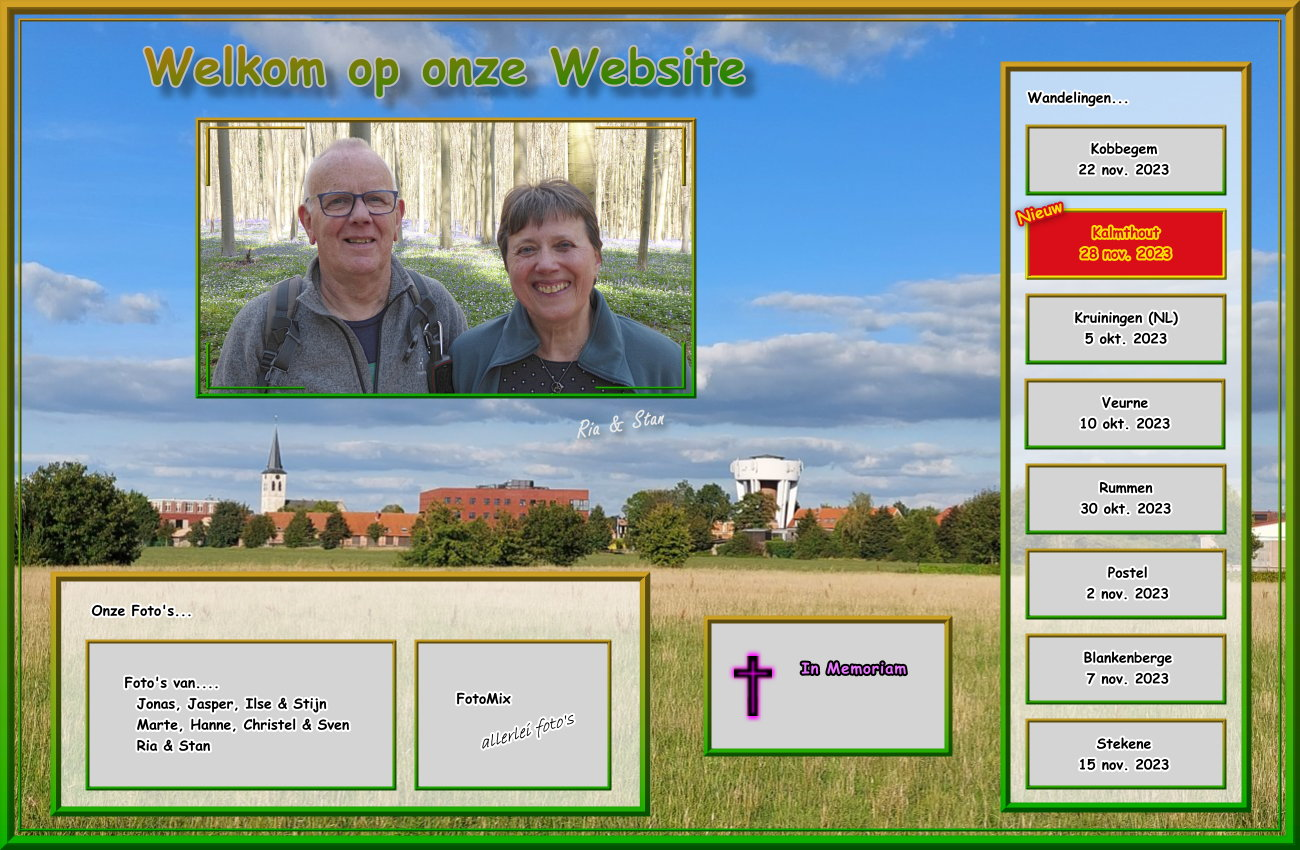
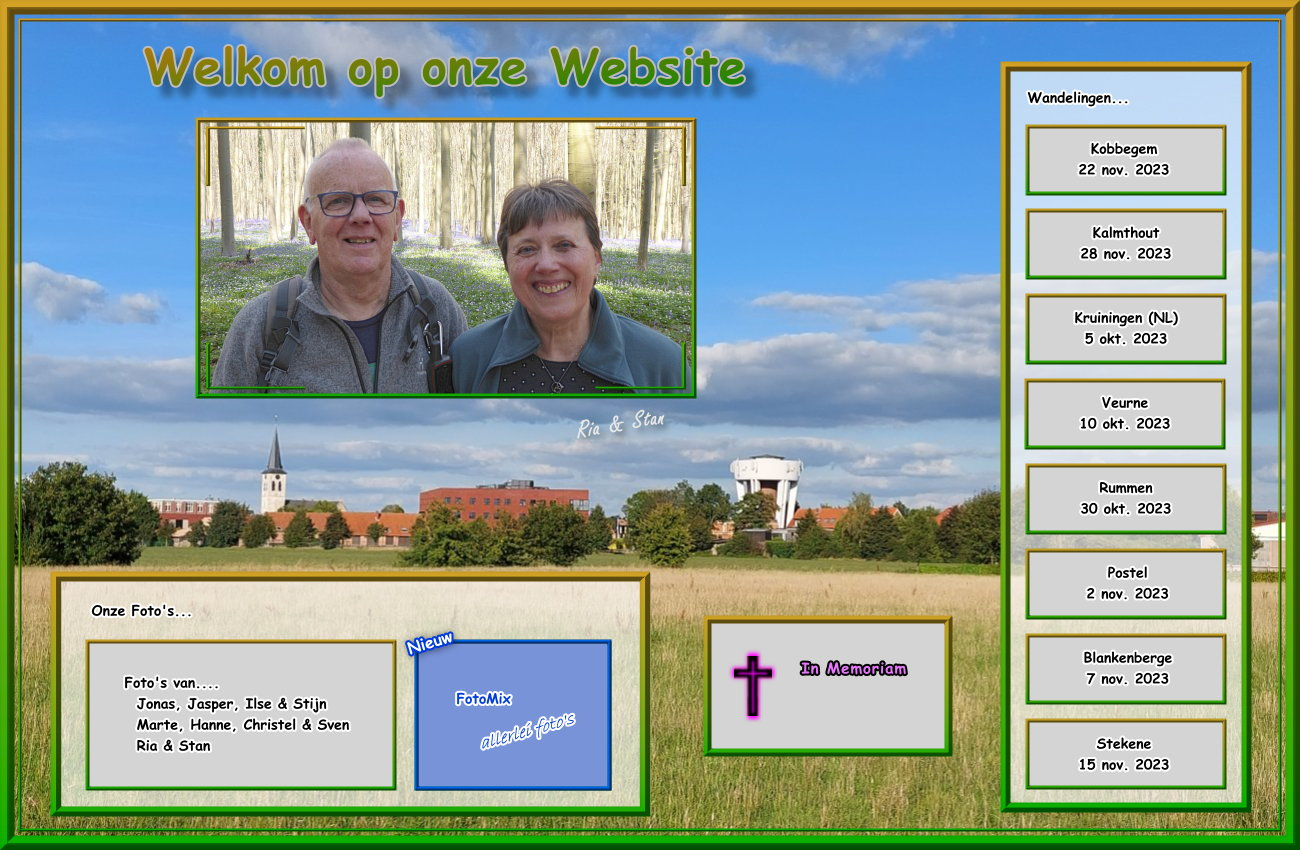
street art

Changed region(s): [[0.3077, 0.7341, 0.4923, 0.9482], [0.7692, 0.2141, 0.9538, 0.3365]]

diff --git a/_vti_cnf/fotomix.htm b/_vti_cnf/fotomix.htm
@@ -1,20 +1,20 @@
 vti_encoding:SR|utf8-nl
 vti_author:SR|HOME-PC\\Stan Claes
 vti_modifiedby:SR|PC-Home\\Stan
-vti_timelastmodified:TR|13 Nov 2023 14:21:16 -0000
+vti_timelastmodified:TR|07 Dec 2023 14:17:55 -0000
 vti_timecreated:TR|24 Jul 2006 16:29:15 -0000
 vti_title:SR|Fotomix
 vti_extenderversion:SR|6.0.2.5516
 vti_lineageid:SR|{4CA186E6-ED25-4229-BE09-238CFA3DE64C}
 vti_backlinkinfo:VX|familiefotos.htm Polaroid_map1/paasfeest.htm index.htm fotomix.htm fortb/fortb.htm Polaroid_map2/fortb.htm hanne5.htm sneeuw.htm kerst.htm kerstmis.htm keukenhof.htm ballon.htm
-vti_nexttolasttimemodified:TW|13 Nov 2023 13:47:52 -0000
+vti_nexttolasttimemodified:TW|13 Nov 2023 14:21:16 -0000
 vti_thicketdir:SW|fotomix_bestanden
-vti_cacheddtm:TX|13 Nov 2023 14:21:16 -0000
-vti_filesize:IR|15448
+vti_cacheddtm:TX|07 Dec 2023 14:17:55 -0000
+vti_filesize:IR|16966
 vti_cachedtitle:SR|Fotomix
 vti_cachedbodystyle:SR|<body style="background-attachment: fixed" leftmargin="70" rightmargin="70" bgcolor="#EFF4AC">
-vti_cachedlinkinfo:VX|H|index.htm H|familiefotos.htm S|Fotomap/fotomix/fotomix_naam.png S|Fotomap/fotomix/231110_mix_titel.png S|Fotomap/fotomix/bijtekst_tcsbe.jpg S|Fotomap/fotomix/tcsbe_02.jpg S|Fotomap/fotomix/tcsbe_01.jpg S|Fotomap/fotomix/tcsbe_03.jpg S|Fotomap/fotomix/tcsbe_05.jpg S|Fotomap/fotomix/tcsbe_07.gif S|Fotomap/fotomix/tcsbe_09.jpg S|Fotomap/fotomix/tcsbe_10.jpg S|Fotomap/fotomix/tcsbe_11.jpg S|Fotomap/fotomix/tcsbe_12.jpg S|Fotomap/fotomix/tcsbe_14.jpg S|Fotomap/fotomix/tcsbe_15.jpg S|Fotomap/fotomix/tcsbe_16.jpg S|Fotomap/fotomix/tcsbe_17.jpg S|Fotomap/fotomix/tcsbe_19.jpg S|Fotomap/fotomix/tcsbe_20.jpg S|Fotomap/fotomix/tcsbe_22.jpg S|Fotomap/fotomix/tcsbe_23.jpg S|Fotomap/fotomix/tcsbe_24.jpg S|Fotomap/fotomix/tcsbe_25.jpg S|Fotomap/fotomix/tcsbe_26.jpg S|Fotomap/fotomix/tcsbe_30.jpg S|Fotomap/fotomix/tcsbe_29.jpg S|Fotomap/fotomix/tcsbe_31.jpg S|Fotomap/fotomix/tcsbe_34.gif S|Fotomap/fotomix/tcsbe_36.jpg S|Fotomap/fotomix/tcsbe_41.jpg S|Fotomap/fotomix/tcsbe_37.jpg K|fotomix.htm S|Fotomap/fotomix/terugbegin.png S|Fotomap/fotomix/220807_mix_titel.png S|Fotomap/fotomix/bijtekst_ostend.jpg S|Fotomap/fotomix/bomma_ostend_01.jpg S|Fotomap/fotomix/bomma_ostend_02.jpg S|Fotomap/fotomix/bomma_ostend_03.jpg S|Fotomap/fotomix/bomma_ostend_05.jpg S|Fotomap/fotomix/bomma_ostend_07.jpg S|Fotomap/fotomix/bomma_ostend_08.jpg S|Fotomap/fotomix/bomma_ostend_09.jpg S|Fotomap/fotomix/bomma_ostend_11.jpg S|Fotomap/fotomix/bomma_ostend_14.jpg S|Fotomap/fotomix/bomma_ostend_16.jpg S|Fotomap/fotomix/bomma_ostend_17.jpg K|fotomix.htm S|Fotomap/fotomix/terugbegin.png S|Fotomap/fotomix/220522_mix_titel.png S|Fotomap/fotomix/bijtekst_middelheim.jpg S|Fotomap/fotomix/middelhm_01.jpg S|Fotomap/fotomix/middelhm_04.jpg S|Fotomap/fotomix/middelhm_05.jpg S|Fotomap/fotomix/middelhm_06.jpg S|Fotomap/fotomix/middelhm_09.jpg S|Fotomap/fotomix/middelhm_10.jpg S|Fotomap/fotomix/middelhm_12.jpg S|Fotomap/fotomix/middelhm_14.jpg S|Fotomap/fotomix/middelhm_16.jpg S|Fotomap/fotomix/middelhm_19.jpg S|Fotomap/fotomix/middelhm_23.jpg S|Fotomap/fotomix/middelhm_24.jpg S|Fotomap/fotomix/middelhm_26.jpg S|Fotomap/fotomix/middelhm_27.jpg S|Fotomap/fotomix/middelhm_28.jpg S|Fotomap/fotomix/middelhm_30.jpg S|Fotomap/fotomix/middelhm_31.jpg S|Fotomap/fotomix/middelhm_34.jpg S|Fotomap/fotomix/middelhm_35.jpg S|Fotomap/fotomix/middelhm_37.jpg S|Fotomap/fotomix/middelhm_39.jpg S|Fotomap/fotomix/middelhm_41.jpg S|Fotomap/fotomix/middelhm_42.jpg S|Fotomap/fotomix/middelhm_48.jpg S|Fotomap/fotomix/middelhm_50.jpg S|Fotomap/fotomix/middelhm_51.jpg S|Fotomap/fotomix/middelhm_52.jpg S|Fotomap/fotomix/middelhm_54.jpg S|Fotomap/fotomix/middelhm_57.jpg S|Fotomap/fotomix/middelhm_56.jpg S|Fotomap/fotomix/middelhm_61.jpg S|Fotomap/fotomix/middelhm_60.jpg K|fotomix.htm S|Fotomap/fotomix/terugbegin.png S|Fotomap/fotomix/220430_mix_titel.png S|Fotomap/fotomix/vormsel_03.jpg S|Fotomap/fotomix/vormsel_06.jpg S|Fotomap/fotomix/vormsel_08.jpg S|Fotomap/fotomix/vormsel_10.jpg S|Fotomap/fotomix/vormsel_19.jpg S|Fotomap/fotomix/vormsel_14.jpg S|Fotomap/fotomix/vormsel_17.jpg S|Fotomap/fotomix/vormsel_21.jpg S|Fotomap/fotomix/vormsel_29.jpg S|Fotomap/fotomix/vormsel_22.jpg S|Fotomap/fotomix/vormsel_28.jpg S|Fotomap/fotomix/vormsel_32.jpg K|fotomix.htm S|Fotomap/fotomix/terugbegin.png S|Fotomap/fotomix/210713_mix_titel.png S|Fotomap/fotomix/bijtekst_chocolate.jpg S|Fotomap/fotomix/chocolate_07.jpg S|Fotomap/fotomix/chocolate_01.jpg S|Fotomap/fotomix/chocolate_09.jpg S|Fotomap/fotomix/chocolate_11.jpg S|Fotomap/fotomix/chocolate_18.jpg S|Fotomap/fotomix/chocolate_43.jpg S|Fotomap/fotomix/chocolate_19.jpg S|Fotomap/fotomix/chocolate_21.jpg S|Fotomap/fotomix/chocolate_27.jpg S|Fotomap/fotomix/chocolate_29.jpg S|Fotomap/fotomix/chocolate_34.jpg S|Fotomap/fotomix/chocolate_45.jpg S|Fotomap/fotomix/chocolate_48.jpg S|Fotomap/fotomix/chocolate_52.jpg S|Fotomap/fotomix/chocolate_praline.png K|fotomix.htm S|Fotomap/fotomix/terugbegin.png S|Fotomap/fotomix/210606_mix_titel.png S|Fotomap/fotomix/verjstijjas_01.jpg S|Fotomap/fotomix/verjstijjas_03.jpg S|Fotomap/fotomix/verjstijjas_05.jpg S|Fotomap/fotomix/verjstijjas_08.jpg S|Fotomap/fotomix/verjstijjas_10.jpg S|Fotomap/fotomix/verjstijjas_12.jpg S|Fotomap/fotomix/verjstijjas_16.jpg S|Fotomap/fotomix/verjstijjas_20.jpg S|Fotomap/fotomix/verjstijjas_22.jpg S|Fotomap/fotomix/verjstijjas_26.jpg K|fotomix.htm S|Fotomap/fotomix/terugbegin.png S|Fotomap/fotomix/201218_mix_titel.png S|Fotomap/fotomix/bijtekst_borsbeek.jpg S|Fotomap/fotomix/borsbeek_03.jpg S|Fotomap/fotomix/borsbeek_04.jpg S|Fotomap/fotomix/borsbeek_06.jpg S|Fotomap/fotomix/borsbeek_08.jpg S|Fotomap/fotomix/borsbeek_10.jpg S|Fotomap/fotomix/borsbeek_12.jpg S|Fotomap/fotomix/borsbeek_14.jpg S|Fotomap/fotomix/borsbeek_16.jpg S|Fotomap/fotomix/borsbeek_19.jpg S|Fotomap/fotomix/borsbeek_17.jpg S|Fotomap/fotomix/borsbeek_18.jpg S|Fotomap/fotomix/borsbeek_29.jpg S|Fotomap/fotomix/borsbeek_31.jpg S|Fotomap/fotomix/borsbeek_25.jpg S|Fotomap/fotomix/borsbeek_33.jpg K|fotomix.htm S|Fotomap/fotomix/terugbegin.png
-vti_cachedsvcrellinks:VX|FHUS|index.htm FHUS|familiefotos.htm FSUS|Fotomap/fotomix/fotomix_naam.png FSUS|Fotomap/fotomix/231110_mix_titel.png FSUS|Fotomap/fotomix/bijtekst_tcsbe.jpg FSUS|Fotomap/fotomix/tcsbe_02.jpg FSUS|Fotomap/fotomix/tcsbe_01.jpg FSUS|Fotomap/fotomix/tcsbe_03.jpg FSUS|Fotomap/fotomix/tcsbe_05.jpg FSUS|Fotomap/fotomix/tcsbe_07.gif FSUS|Fotomap/fotomix/tcsbe_09.jpg FSUS|Fotomap/fotomix/tcsbe_10.jpg FSUS|Fotomap/fotomix/tcsbe_11.jpg FSUS|Fotomap/fotomix/tcsbe_12.jpg FSUS|Fotomap/fotomix/tcsbe_14.jpg FSUS|Fotomap/fotomix/tcsbe_15.jpg FSUS|Fotomap/fotomix/tcsbe_16.jpg FSUS|Fotomap/fotomix/tcsbe_17.jpg FSUS|Fotomap/fotomix/tcsbe_19.jpg FSUS|Fotomap/fotomix/tcsbe_20.jpg FSUS|Fotomap/fotomix/tcsbe_22.jpg FSUS|Fotomap/fotomix/tcsbe_23.jpg FSUS|Fotomap/fotomix/tcsbe_24.jpg FSUS|Fotomap/fotomix/tcsbe_25.jpg FSUS|Fotomap/fotomix/tcsbe_26.jpg FSUS|Fotomap/fotomix/tcsbe_30.jpg FSUS|Fotomap/fotomix/tcsbe_29.jpg FSUS|Fotomap/fotomix/tcsbe_31.jpg FSUS|Fotomap/fotomix/tcsbe_34.gif FSUS|Fotomap/fotomix/tcsbe_36.jpg FSUS|Fotomap/fotomix/tcsbe_41.jpg FSUS|Fotomap/fotomix/tcsbe_37.jpg FKUS|fotomix.htm FSUS|Fotomap/fotomix/terugbegin.png FSUS|Fotomap/fotomix/220807_mix_titel.png FSUS|Fotomap/fotomix/bijtekst_ostend.jpg FSUS|Fotomap/fotomix/bomma_ostend_01.jpg FSUS|Fotomap/fotomix/bomma_ostend_02.jpg FSUS|Fotomap/fotomix/bomma_ostend_03.jpg FSUS|Fotomap/fotomix/bomma_ostend_05.jpg FSUS|Fotomap/fotomix/bomma_ostend_07.jpg FSUS|Fotomap/fotomix/bomma_ostend_08.jpg FSUS|Fotomap/fotomix/bomma_ostend_09.jpg FSUS|Fotomap/fotomix/bomma_ostend_11.jpg FSUS|Fotomap/fotomix/bomma_ostend_14.jpg FSUS|Fotomap/fotomix/bomma_ostend_16.jpg FSUS|Fotomap/fotomix/bomma_ostend_17.jpg FKUS|fotomix.htm FSUS|Fotomap/fotomix/terugbegin.png FSUS|Fotomap/fotomix/220522_mix_titel.png FSUS|Fotomap/fotomix/bijtekst_middelheim.jpg FSUS|Fotomap/fotomix/middelhm_01.jpg FSUS|Fotomap/fotomix/middelhm_04.jpg FSUS|Fotomap/fotomix/middelhm_05.jpg FSUS|Fotomap/fotomix/middelhm_06.jpg FSUS|Fotomap/fotomix/middelhm_09.jpg FSUS|Fotomap/fotomix/middelhm_10.jpg FSUS|Fotomap/fotomix/middelhm_12.jpg FSUS|Fotomap/fotomix/middelhm_14.jpg FSUS|Fotomap/fotomix/middelhm_16.jpg FSUS|Fotomap/fotomix/middelhm_19.jpg FSUS|Fotomap/fotomix/middelhm_23.jpg FSUS|Fotomap/fotomix/middelhm_24.jpg FSUS|Fotomap/fotomix/middelhm_26.jpg FSUS|Fotomap/fotomix/middelhm_27.jpg FSUS|Fotomap/fotomix/middelhm_28.jpg FSUS|Fotomap/fotomix/middelhm_30.jpg FSUS|Fotomap/fotomix/middelhm_31.jpg FSUS|Fotomap/fotomix/middelhm_34.jpg FSUS|Fotomap/fotomix/middelhm_35.jpg FSUS|Fotomap/fotomix/middelhm_37.jpg FSUS|Fotomap/fotomix/middelhm_39.jpg FSUS|Fotomap/fotomix/middelhm_41.jpg FSUS|Fotomap/fotomix/middelhm_42.jpg FSUS|Fotomap/fotomix/middelhm_48.jpg FSUS|Fotomap/fotomix/middelhm_50.jpg FSUS|Fotomap/fotomix/middelhm_51.jpg FSUS|Fotomap/fotomix/middelhm_52.jpg FSUS|Fotomap/fotomix/middelhm_54.jpg FSUS|Fotomap/fotomix/middelhm_57.jpg FSUS|Fotomap/fotomix/middelhm_56.jpg FSUS|Fotomap/fotomix/middelhm_61.jpg FSUS|Fotomap/fotomix/middelhm_60.jpg FKUS|fotomix.htm FSUS|Fotomap/fotomix/terugbegin.png FSUS|Fotomap/fotomix/220430_mix_titel.png FSUS|Fotomap/fotomix/vormsel_03.jpg FSUS|Fotomap/fotomix/vormsel_06.jpg FSUS|Fotomap/fotomix/vormsel_08.jpg FSUS|Fotomap/fotomix/vormsel_10.jpg FSUS|Fotomap/fotomix/vormsel_19.jpg FSUS|Fotomap/fotomix/vormsel_14.jpg FSUS|Fotomap/fotomix/vormsel_17.jpg FSUS|Fotomap/fotomix/vormsel_21.jpg FSUS|Fotomap/fotomix/vormsel_29.jpg FSUS|Fotomap/fotomix/vormsel_22.jpg FSUS|Fotomap/fotomix/vormsel_28.jpg FSUS|Fotomap/fotomix/vormsel_32.jpg FKUS|fotomix.htm FSUS|Fotomap/fotomix/terugbegin.png FSUS|Fotomap/fotomix/210713_mix_titel.png FSUS|Fotomap/fotomix/bijtekst_chocolate.jpg FSUS|Fotomap/fotomix/chocolate_07.jpg FSUS|Fotomap/fotomix/chocolate_01.jpg FSUS|Fotomap/fotomix/chocolate_09.jpg FSUS|Fotomap/fotomix/chocolate_11.jpg FSUS|Fotomap/fotomix/chocolate_18.jpg FSUS|Fotomap/fotomix/chocolate_43.jpg FSUS|Fotomap/fotomix/chocolate_19.jpg FSUS|Fotomap/fotomix/chocolate_21.jpg FSUS|Fotomap/fotomix/chocolate_27.jpg FSUS|Fotomap/fotomix/chocolate_29.jpg FSUS|Fotomap/fotomix/chocolate_34.jpg FSUS|Fotomap/fotomix/chocolate_45.jpg FSUS|Fotomap/fotomix/chocolate_48.jpg FSUS|Fotomap/fotomix/chocolate_52.jpg FSUS|Fotomap/fotomix/chocolate_praline.png FKUS|fotomix.htm FSUS|Fotomap/fotomix/terugbegin.png FSUS|Fotomap/fotomix/210606_mix_titel.png FSUS|Fotomap/fotomix/verjstijjas_01.jpg FSUS|Fotomap/fotomix/verjstijjas_03.jpg FSUS|Fotomap/fotomix/verjstijjas_05.jpg FSUS|Fotomap/fotomix/verjstijjas_08.jpg FSUS|Fotomap/fotomix/verjstijjas_10.jpg FSUS|Fotomap/fotomix/verjstijjas_12.jpg FSUS|Fotomap/fotomix/verjstijjas_16.jpg FSUS|Fotomap/fotomix/verjstijjas_20.jpg FSUS|Fotomap/fotomix/verjstijjas_22.jpg FSUS|Fotomap/fotomix/verjstijjas_26.jpg FKUS|fotomix.htm FSUS|Fotomap/fotomix/terugbegin.png FSUS|Fotomap/fotomix/201218_mix_titel.png FSUS|Fotomap/fotomix/bijtekst_borsbeek.jpg FSUS|Fotomap/fotomix/borsbeek_03.jpg FSUS|Fotomap/fotomix/borsbeek_04.jpg FSUS|Fotomap/fotomix/borsbeek_06.jpg FSUS|Fotomap/fotomix/borsbeek_08.jpg FSUS|Fotomap/fotomix/borsbeek_10.jpg FSUS|Fotomap/fotomix/borsbeek_12.jpg FSUS|Fotomap/fotomix/borsbeek_14.jpg FSUS|Fotomap/fotomix/borsbeek_16.jpg FSUS|Fotomap/fotomix/borsbeek_19.jpg FSUS|Fotomap/fotomix/borsbeek_17.jpg FSUS|Fotomap/fotomix/borsbeek_18.jpg FSUS|Fotomap/fotomix/borsbeek_29.jpg FSUS|Fotomap/fotomix/borsbeek_31.jpg FSUS|Fotomap/fotomix/borsbeek_25.jpg FSUS|Fotomap/fotomix/borsbeek_33.jpg FKUS|fotomix.htm FSUS|Fotomap/fotomix/terugbegin.png
+vti_cachedlinkinfo:VX|H|index.htm H|familiefotos.htm S|Fotomap/fotomix/fotomix_naam.png S|Fotomap/fotomix/231201_mix_titel.png S|Fotomap/fotomix/bijtekst_tcso.jpg S|Fotomap/fotomix/tcso_02.jpg S|Fotomap/fotomix/tcso_04.jpg S|Fotomap/fotomix/tcso_07.jpg S|Fotomap/fotomix/tcso_10.jpg S|Fotomap/fotomix/tcso_12.gif S|Fotomap/fotomix/tcso_16.jpg S|Fotomap/fotomix/tcso_17.jpg S|Fotomap/fotomix/tcso_19.jpg S|Fotomap/fotomix/tcso_21.jpg S|Fotomap/fotomix/tcso_24.jpg S|Fotomap/fotomix/tcso_25.jpg S|Fotomap/fotomix/tcso_28.jpg K|fotomix.htm S|Fotomap/fotomix/terugbegin.png S|Fotomap/fotomix/231110_mix_titel.png S|Fotomap/fotomix/bijtekst_tcsbe.jpg S|Fotomap/fotomix/tcsbe_02.jpg S|Fotomap/fotomix/tcsbe_01.jpg S|Fotomap/fotomix/tcsbe_03.jpg S|Fotomap/fotomix/tcsbe_05.jpg S|Fotomap/fotomix/tcsbe_07.gif S|Fotomap/fotomix/tcsbe_09.jpg S|Fotomap/fotomix/tcsbe_10.jpg S|Fotomap/fotomix/tcsbe_11.jpg S|Fotomap/fotomix/tcsbe_12.jpg S|Fotomap/fotomix/tcsbe_14.jpg S|Fotomap/fotomix/tcsbe_15.jpg S|Fotomap/fotomix/tcsbe_16.jpg S|Fotomap/fotomix/tcsbe_17.jpg S|Fotomap/fotomix/tcsbe_19.jpg S|Fotomap/fotomix/tcsbe_20.jpg S|Fotomap/fotomix/tcsbe_22.jpg S|Fotomap/fotomix/tcsbe_23.jpg S|Fotomap/fotomix/tcsbe_24.jpg S|Fotomap/fotomix/tcsbe_25.jpg S|Fotomap/fotomix/tcsbe_26.jpg S|Fotomap/fotomix/tcsbe_30.jpg S|Fotomap/fotomix/tcsbe_29.jpg S|Fotomap/fotomix/tcsbe_31.jpg S|Fotomap/fotomix/tcsbe_34.gif S|Fotomap/fotomix/tcsbe_36.jpg S|Fotomap/fotomix/tcsbe_41.jpg S|Fotomap/fotomix/tcsbe_37.jpg K|fotomix.htm S|Fotomap/fotomix/terugbegin.png S|Fotomap/fotomix/220807_mix_titel.png S|Fotomap/fotomix/bijtekst_ostend.jpg S|Fotomap/fotomix/bomma_ostend_01.jpg S|Fotomap/fotomix/bomma_ostend_02.jpg S|Fotomap/fotomix/bomma_ostend_03.jpg S|Fotomap/fotomix/bomma_ostend_05.jpg S|Fotomap/fotomix/bomma_ostend_07.jpg S|Fotomap/fotomix/bomma_ostend_08.jpg S|Fotomap/fotomix/bomma_ostend_09.jpg S|Fotomap/fotomix/bomma_ostend_11.jpg S|Fotomap/fotomix/bomma_ostend_14.jpg S|Fotomap/fotomix/bomma_ostend_16.jpg S|Fotomap/fotomix/bomma_ostend_17.jpg K|fotomix.htm S|Fotomap/fotomix/terugbegin.png S|Fotomap/fotomix/220522_mix_titel.png S|Fotomap/fotomix/bijtekst_middelheim.jpg S|Fotomap/fotomix/middelhm_01.jpg S|Fotomap/fotomix/middelhm_04.jpg S|Fotomap/fotomix/middelhm_05.jpg S|Fotomap/fotomix/middelhm_06.jpg S|Fotomap/fotomix/middelhm_09.jpg S|Fotomap/fotomix/middelhm_10.jpg S|Fotomap/fotomix/middelhm_12.jpg S|Fotomap/fotomix/middelhm_14.jpg S|Fotomap/fotomix/middelhm_16.jpg S|Fotomap/fotomix/middelhm_19.jpg S|Fotomap/fotomix/middelhm_23.jpg S|Fotomap/fotomix/middelhm_24.jpg S|Fotomap/fotomix/middelhm_26.jpg S|Fotomap/fotomix/middelhm_27.jpg S|Fotomap/fotomix/middelhm_28.jpg S|Fotomap/fotomix/middelhm_30.jpg S|Fotomap/fotomix/middelhm_31.jpg S|Fotomap/fotomix/middelhm_34.jpg S|Fotomap/fotomix/middelhm_35.jpg S|Fotomap/fotomix/middelhm_37.jpg S|Fotomap/fotomix/middelhm_39.jpg S|Fotomap/fotomix/middelhm_41.jpg S|Fotomap/fotomix/middelhm_42.jpg S|Fotomap/fotomix/middelhm_48.jpg S|Fotomap/fotomix/middelhm_50.jpg S|Fotomap/fotomix/middelhm_51.jpg S|Fotomap/fotomix/middelhm_52.jpg S|Fotomap/fotomix/middelhm_54.jpg S|Fotomap/fotomix/middelhm_57.jpg S|Fotomap/fotomix/middelhm_56.jpg S|Fotomap/fotomix/middelhm_61.jpg S|Fotomap/fotomix/middelhm_60.jpg K|fotomix.htm S|Fotomap/fotomix/terugbegin.png S|Fotomap/fotomix/220430_mix_titel.png S|Fotomap/fotomix/vormsel_03.jpg S|Fotomap/fotomix/vormsel_06.jpg S|Fotomap/fotomix/vormsel_08.jpg S|Fotomap/fotomix/vormsel_10.jpg S|Fotomap/fotomix/vormsel_19.jpg S|Fotomap/fotomix/vormsel_14.jpg S|Fotomap/fotomix/vormsel_17.jpg S|Fotomap/fotomix/vormsel_21.jpg S|Fotomap/fotomix/vormsel_29.jpg S|Fotomap/fotomix/vormsel_22.jpg S|Fotomap/fotomix/vormsel_28.jpg S|Fotomap/fotomix/vormsel_32.jpg K|fotomix.htm S|Fotomap/fotomix/terugbegin.png S|Fotomap/fotomix/210713_mix_titel.png S|Fotomap/fotomix/bijtekst_chocolate.jpg S|Fotomap/fotomix/chocolate_07.jpg S|Fotomap/fotomix/chocolate_01.jpg S|Fotomap/fotomix/chocolate_09.jpg S|Fotomap/fotomix/chocolate_11.jpg S|Fotomap/fotomix/chocolate_18.jpg S|Fotomap/fotomix/chocolate_43.jpg S|Fotomap/fotomix/chocolate_19.jpg S|Fotomap/fotomix/chocolate_21.jpg S|Fotomap/fotomix/chocolate_27.jpg S|Fotomap/fotomix/chocolate_29.jpg S|Fotomap/fotomix/chocolate_34.jpg S|Fotomap/fotomix/chocolate_45.jpg S|Fotomap/fotomix/chocolate_48.jpg S|Fotomap/fotomix/chocolate_52.jpg S|Fotomap/fotomix/chocolate_praline.png K|fotomix.htm S|Fotomap/fotomix/terugbegin.png S|Fotomap/fotomix/210606_mix_titel.png S|Fotomap/fotomix/verjstijjas_01.jpg S|Fotomap/fotomix/verjstijjas_03.jpg S|Fotomap/fotomix/verjstijjas_05.jpg S|Fotomap/fotomix/verjstijjas_08.jpg S|Fotomap/fotomix/verjstijjas_10.jpg S|Fotomap/fotomix/verjstijjas_12.jpg S|Fotomap/fotomix/verjstijjas_16.jpg S|Fotomap/fotomix/verjstijjas_20.jpg S|Fotomap/fotomix/verjstijjas_22.jpg S|Fotomap/fotomix/verjstijjas_26.jpg K|fotomix.htm S|Fotomap/fotomix/terugbegin.png S|Fotomap/fotomix/201218_mix_titel.png S|Fotomap/fotomix/bijtekst_borsbeek.jpg S|Fotomap/fotomix/borsbeek_03.jpg S|Fotomap/fotomix/borsbeek_04.jpg S|Fotomap/fotomix/borsbeek_06.jpg S|Fotomap/fotomix/borsbeek_08.jpg S|Fotomap/fotomix/borsbeek_10.jpg S|Fotomap/fotomix/borsbeek_12.jpg S|Fotomap/fotomix/borsbeek_14.jpg S|Fotomap/fotomix/borsbeek_16.jpg S|Fotomap/fotomix/borsbeek_19.jpg S|Fotomap/fotomix/borsbeek_17.jpg S|Fotomap/fotomix/borsbeek_18.jpg S|Fotomap/fotomix/borsbeek_29.jpg S|Fotomap/fotomix/borsbeek_31.jpg S|Fotomap/fotomix/borsbeek_25.jpg S|Fotomap/fotomix/borsbeek_33.jpg K|fotomix.htm S|Fotomap/fotomix/terugbegin.png
+vti_cachedsvcrellinks:VX|FHUS|index.htm FHUS|familiefotos.htm FSUS|Fotomap/fotomix/fotomix_naam.png FSUS|Fotomap/fotomix/231201_mix_titel.png FSUS|Fotomap/fotomix/bijtekst_tcso.jpg FSUS|Fotomap/fotomix/tcso_02.jpg FSUS|Fotomap/fotomix/tcso_04.jpg FSUS|Fotomap/fotomix/tcso_07.jpg FSUS|Fotomap/fotomix/tcso_10.jpg FSUS|Fotomap/fotomix/tcso_12.gif FSUS|Fotomap/fotomix/tcso_16.jpg FSUS|Fotomap/fotomix/tcso_17.jpg FSUS|Fotomap/fotomix/tcso_19.jpg FSUS|Fotomap/fotomix/tcso_21.jpg FSUS|Fotomap/fotomix/tcso_24.jpg FSUS|Fotomap/fotomix/tcso_25.jpg FSUS|Fotomap/fotomix/tcso_28.jpg FKUS|fotomix.htm FSUS|Fotomap/fotomix/terugbegin.png FSUS|Fotomap/fotomix/231110_mix_titel.png FSUS|Fotomap/fotomix/bijtekst_tcsbe.jpg FSUS|Fotomap/fotomix/tcsbe_02.jpg FSUS|Fotomap/fotomix/tcsbe_01.jpg FSUS|Fotomap/fotomix/tcsbe_03.jpg FSUS|Fotomap/fotomix/tcsbe_05.jpg FSUS|Fotomap/fotomix/tcsbe_07.gif FSUS|Fotomap/fotomix/tcsbe_09.jpg FSUS|Fotomap/fotomix/tcsbe_10.jpg FSUS|Fotomap/fotomix/tcsbe_11.jpg FSUS|Fotomap/fotomix/tcsbe_12.jpg FSUS|Fotomap/fotomix/tcsbe_14.jpg FSUS|Fotomap/fotomix/tcsbe_15.jpg FSUS|Fotomap/fotomix/tcsbe_16.jpg FSUS|Fotomap/fotomix/tcsbe_17.jpg FSUS|Fotomap/fotomix/tcsbe_19.jpg FSUS|Fotomap/fotomix/tcsbe_20.jpg FSUS|Fotomap/fotomix/tcsbe_22.jpg FSUS|Fotomap/fotomix/tcsbe_23.jpg FSUS|Fotomap/fotomix/tcsbe_24.jpg FSUS|Fotomap/fotomix/tcsbe_25.jpg FSUS|Fotomap/fotomix/tcsbe_26.jpg FSUS|Fotomap/fotomix/tcsbe_30.jpg FSUS|Fotomap/fotomix/tcsbe_29.jpg FSUS|Fotomap/fotomix/tcsbe_31.jpg FSUS|Fotomap/fotomix/tcsbe_34.gif FSUS|Fotomap/fotomix/tcsbe_36.jpg FSUS|Fotomap/fotomix/tcsbe_41.jpg FSUS|Fotomap/fotomix/tcsbe_37.jpg FKUS|fotomix.htm FSUS|Fotomap/fotomix/terugbegin.png FSUS|Fotomap/fotomix/220807_mix_titel.png FSUS|Fotomap/fotomix/bijtekst_ostend.jpg FSUS|Fotomap/fotomix/bomma_ostend_01.jpg FSUS|Fotomap/fotomix/bomma_ostend_02.jpg FSUS|Fotomap/fotomix/bomma_ostend_03.jpg FSUS|Fotomap/fotomix/bomma_ostend_05.jpg FSUS|Fotomap/fotomix/bomma_ostend_07.jpg FSUS|Fotomap/fotomix/bomma_ostend_08.jpg FSUS|Fotomap/fotomix/bomma_ostend_09.jpg FSUS|Fotomap/fotomix/bomma_ostend_11.jpg FSUS|Fotomap/fotomix/bomma_ostend_14.jpg FSUS|Fotomap/fotomix/bomma_ostend_16.jpg FSUS|Fotomap/fotomix/bomma_ostend_17.jpg FKUS|fotomix.htm FSUS|Fotomap/fotomix/terugbegin.png FSUS|Fotomap/fotomix/220522_mix_titel.png FSUS|Fotomap/fotomix/bijtekst_middelheim.jpg FSUS|Fotomap/fotomix/middelhm_01.jpg FSUS|Fotomap/fotomix/middelhm_04.jpg FSUS|Fotomap/fotomix/middelhm_05.jpg FSUS|Fotomap/fotomix/middelhm_06.jpg FSUS|Fotomap/fotomix/middelhm_09.jpg FSUS|Fotomap/fotomix/middelhm_10.jpg FSUS|Fotomap/fotomix/middelhm_12.jpg FSUS|Fotomap/fotomix/middelhm_14.jpg FSUS|Fotomap/fotomix/middelhm_16.jpg FSUS|Fotomap/fotomix/middelhm_19.jpg FSUS|Fotomap/fotomix/middelhm_23.jpg FSUS|Fotomap/fotomix/middelhm_24.jpg FSUS|Fotomap/fotomix/middelhm_26.jpg FSUS|Fotomap/fotomix/middelhm_27.jpg FSUS|Fotomap/fotomix/middelhm_28.jpg FSUS|Fotomap/fotomix/middelhm_30.jpg FSUS|Fotomap/fotomix/middelhm_31.jpg FSUS|Fotomap/fotomix/middelhm_34.jpg FSUS|Fotomap/fotomix/middelhm_35.jpg FSUS|Fotomap/fotomix/middelhm_37.jpg FSUS|Fotomap/fotomix/middelhm_39.jpg FSUS|Fotomap/fotomix/middelhm_41.jpg FSUS|Fotomap/fotomix/middelhm_42.jpg FSUS|Fotomap/fotomix/middelhm_48.jpg FSUS|Fotomap/fotomix/middelhm_50.jpg FSUS|Fotomap/fotomix/middelhm_51.jpg FSUS|Fotomap/fotomix/middelhm_52.jpg FSUS|Fotomap/fotomix/middelhm_54.jpg FSUS|Fotomap/fotomix/middelhm_57.jpg FSUS|Fotomap/fotomix/middelhm_56.jpg FSUS|Fotomap/fotomix/middelhm_61.jpg FSUS|Fotomap/fotomix/middelhm_60.jpg FKUS|fotomix.htm FSUS|Fotomap/fotomix/terugbegin.png FSUS|Fotomap/fotomix/220430_mix_titel.png FSUS|Fotomap/fotomix/vormsel_03.jpg FSUS|Fotomap/fotomix/vormsel_06.jpg FSUS|Fotomap/fotomix/vormsel_08.jpg FSUS|Fotomap/fotomix/vormsel_10.jpg FSUS|Fotomap/fotomix/vormsel_19.jpg FSUS|Fotomap/fotomix/vormsel_14.jpg FSUS|Fotomap/fotomix/vormsel_17.jpg FSUS|Fotomap/fotomix/vormsel_21.jpg FSUS|Fotomap/fotomix/vormsel_29.jpg FSUS|Fotomap/fotomix/vormsel_22.jpg FSUS|Fotomap/fotomix/vormsel_28.jpg FSUS|Fotomap/fotomix/vormsel_32.jpg FKUS|fotomix.htm FSUS|Fotomap/fotomix/terugbegin.png FSUS|Fotomap/fotomix/210713_mix_titel.png FSUS|Fotomap/fotomix/bijtekst_chocolate.jpg FSUS|Fotomap/fotomix/chocolate_07.jpg FSUS|Fotomap/fotomix/chocolate_01.jpg FSUS|Fotomap/fotomix/chocolate_09.jpg FSUS|Fotomap/fotomix/chocolate_11.jpg FSUS|Fotomap/fotomix/chocolate_18.jpg FSUS|Fotomap/fotomix/chocolate_43.jpg FSUS|Fotomap/fotomix/chocolate_19.jpg FSUS|Fotomap/fotomix/chocolate_21.jpg FSUS|Fotomap/fotomix/chocolate_27.jpg FSUS|Fotomap/fotomix/chocolate_29.jpg FSUS|Fotomap/fotomix/chocolate_34.jpg FSUS|Fotomap/fotomix/chocolate_45.jpg FSUS|Fotomap/fotomix/chocolate_48.jpg FSUS|Fotomap/fotomix/chocolate_52.jpg FSUS|Fotomap/fotomix/chocolate_praline.png FKUS|fotomix.htm FSUS|Fotomap/fotomix/terugbegin.png FSUS|Fotomap/fotomix/210606_mix_titel.png FSUS|Fotomap/fotomix/verjstijjas_01.jpg FSUS|Fotomap/fotomix/verjstijjas_03.jpg FSUS|Fotomap/fotomix/verjstijjas_05.jpg FSUS|Fotomap/fotomix/verjstijjas_08.jpg FSUS|Fotomap/fotomix/verjstijjas_10.jpg FSUS|Fotomap/fotomix/verjstijjas_12.jpg FSUS|Fotomap/fotomix/verjstijjas_16.jpg FSUS|Fotomap/fotomix/verjstijjas_20.jpg FSUS|Fotomap/fotomix/verjstijjas_22.jpg FSUS|Fotomap/fotomix/verjstijjas_26.jpg FKUS|fotomix.htm FSUS|Fotomap/fotomix/terugbegin.png FSUS|Fotomap/fotomix/201218_mix_titel.png FSUS|Fotomap/fotomix/bijtekst_borsbeek.jpg FSUS|Fotomap/fotomix/borsbeek_03.jpg FSUS|Fotomap/fotomix/borsbeek_04.jpg FSUS|Fotomap/fotomix/borsbeek_06.jpg FSUS|Fotomap/fotomix/borsbeek_08.jpg FSUS|Fotomap/fotomix/borsbeek_10.jpg FSUS|Fotomap/fotomix/borsbeek_12.jpg FSUS|Fotomap/fotomix/borsbeek_14.jpg FSUS|Fotomap/fotomix/borsbeek_16.jpg FSUS|Fotomap/fotomix/borsbeek_19.jpg FSUS|Fotomap/fotomix/borsbeek_17.jpg FSUS|Fotomap/fotomix/borsbeek_18.jpg FSUS|Fotomap/fotomix/borsbeek_29.jpg FSUS|Fotomap/fotomix/borsbeek_31.jpg FSUS|Fotomap/fotomix/borsbeek_25.jpg FSUS|Fotomap/fotomix/borsbeek_33.jpg FKUS|fotomix.htm FSUS|Fotomap/fotomix/terugbegin.png
 vti_cachedneedsrewrite:BR|false
 vti_cachedhasbots:BR|false
 vti_cachedhastheme:BR|false

diff --git a/fotomix.htm b/fotomix.htm
@@ -46,6 +46,34 @@ text-decoration: none;
 <p align="center">
 &nbsp;</p>
 <p align="center">
+<img border="0" src="Fotomap/fotomix/231201_mix_titel.png" width="1000" height="40">
+<img border="0" src="Fotomap/fotomix/bijtekst_tcso.jpg" width="1000" height="30"></p>
+</p>
+<p align="center">
+&nbsp;</p>
+<p align="center">
+<img border="0" src="Fotomap/fotomix/tcso_02.jpg" width="720" height="470">&nbsp;
+<img border="0" src="Fotomap/fotomix/tcso_04.jpg" width="480" height="540">&nbsp;
+<img border="0" src="Fotomap/fotomix/tcso_07.jpg" width="600" height="425">&nbsp;
+<img border="0" src="Fotomap/fotomix/tcso_10.jpg" width="850" height="500">&nbsp;
+<img border="0" src="Fotomap/fotomix/tcso_12.gif" width="360" height="500">&nbsp;
+<img border="0" src="Fotomap/fotomix/tcso_16.jpg" width="360" height="500">&nbsp;
+<img border="0" src="Fotomap/fotomix/tcso_17.jpg" width="360" height="500">&nbsp;
+<img border="0" src="Fotomap/fotomix/tcso_19.jpg" width="500" height="500">&nbsp;
+<img border="0" src="Fotomap/fotomix/tcso_21.jpg" width="400" height="500">&nbsp;
+<img border="0" src="Fotomap/fotomix/tcso_24.jpg" width="600" height="470">&nbsp;
+<img border="0" src="Fotomap/fotomix/tcso_25.jpg" width="1342" height="425">&nbsp;
+<img border="0" src="Fotomap/fotomix/tcso_28.jpg" width="890" height="470"></p>
+
+<p align="center">&nbsp;</p>
+
+<hr color="#AFB2BA">
+<p align="center"><a title="Terug naar boven aan de pagina!" href="#top">
+<img border="0" src="Fotomap/fotomix/terugbegin.png" width="100" height="19"></a></p><hr color="#AFB2BA">
+
+<p align="center">
+&nbsp;</p>
+<p align="center">
 <img border="0" src="Fotomap/fotomix/231110_mix_titel.png" width="1000" height="40">
 <img border="0" src="Fotomap/fotomix/bijtekst_tcsbe.jpg" width="1000" height="30"></p>
 </p>

diff --git a/_vti_cnf/index.htm b/_vti_cnf/index.htm
@@ -1,13 +1,13 @@
 vti_encoding:SR|utf8-nl
-vti_timelastmodified:TR|28 Nov 2023 16:54:06 -0000
+vti_timelastmodified:TR|07 Dec 2023 14:53:21 -0000
 vti_extenderversion:SR|6.0.2.5516
 vti_author:SR|PC-Home\\Stan
 vti_modifiedby:SR|PC-Home\\Stan
 vti_timecreated:TR|12 Dec 2015 14:26:20 -0000
 vti_title:SR|Welkom op onze website
 vti_backlinkinfo:VX|claes-bollen.htm familiefotos.htm denis.htm gildeclowns.htm fotomix.htm claes-faes.htm Polaroid_map2/fortb.htm fotoboek.htm vakantie_map4.htm in_memoriam.htm denis-claes.htm sneeuw.htm keukenhof.htm rs_info.htm ballon.htm familiefotos_extra.htm wandeling_map1.htm wandeling_map2.htm wandeling_map7.htm kerstwensen.htm Polaroid_map1/paasfeest.htm wandeling_map8.htm index.htm wandeling_map5.htm wandeling_map6.htm fortb/fortb.htm ilse-stijn-extra.htm hanne5.htm bernaerts-claes.htm wandeling_map3.htm wandeling_map4.htm kerstmis.htm kerst.htm
-vti_nexttolasttimemodified:TW|27 Nov 2023 10:38:29 -0000
-vti_cacheddtm:TX|28 Nov 2023 16:54:06 -0000
+vti_nexttolasttimemodified:TW|28 Nov 2023 16:54:06 -0000
+vti_cacheddtm:TX|07 Dec 2023 14:53:21 -0000
 vti_filesize:IR|2122
 vti_cachedtitle:SR|Welkom op onze website
 vti_cachedbodystyle:SR|<body style="background-attachment: fixed" background="index_back.jpg" leftmargin="100" rightmargin="100">

diff --git a/index.htm b/index.htm
@@ -36,7 +36,7 @@
 <p align="center"><b>
 <font color="#FFFFFF">CCF 2023&nbsp;&nbsp;&nbsp;&nbsp; (1920x1080)<img border="0" src="blanco.png" width="450" height="10"> 
 Laatste Update:&nbsp;
-<!--webbot bot="Timestamp" S-Type="EDITED" S-Format="%d %B %Y" startspan -->28 november 2023<!--webbot bot="Timestamp" i-checksum="40214" endspan --></font></b></p>
+<!--webbot bot="Timestamp" S-Type="EDITED" S-Format="%d %B %Y" startspan -->07 december 2023<!--webbot bot="Timestamp" i-checksum="39362" endspan --></font></b></p>
 
 </body>
 
